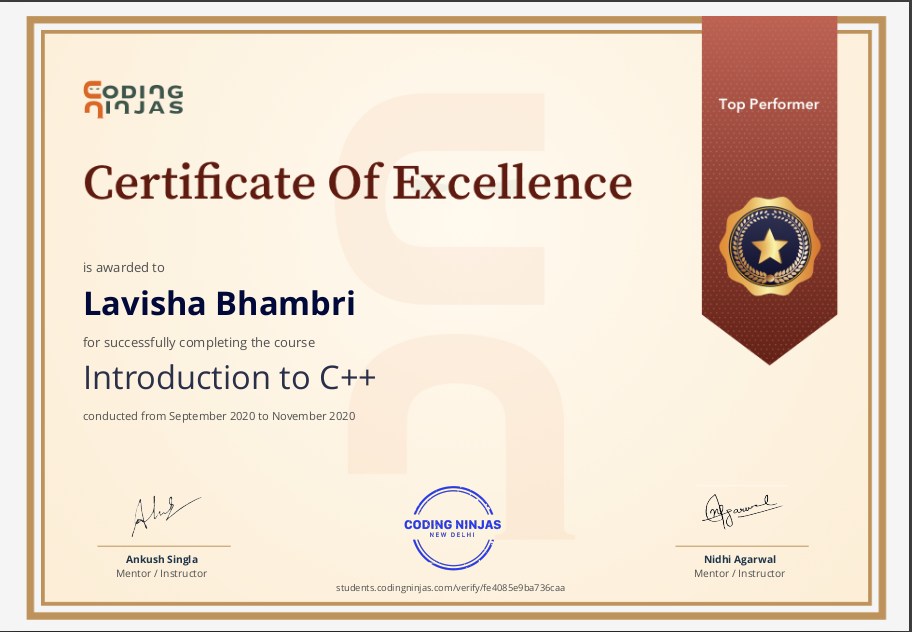
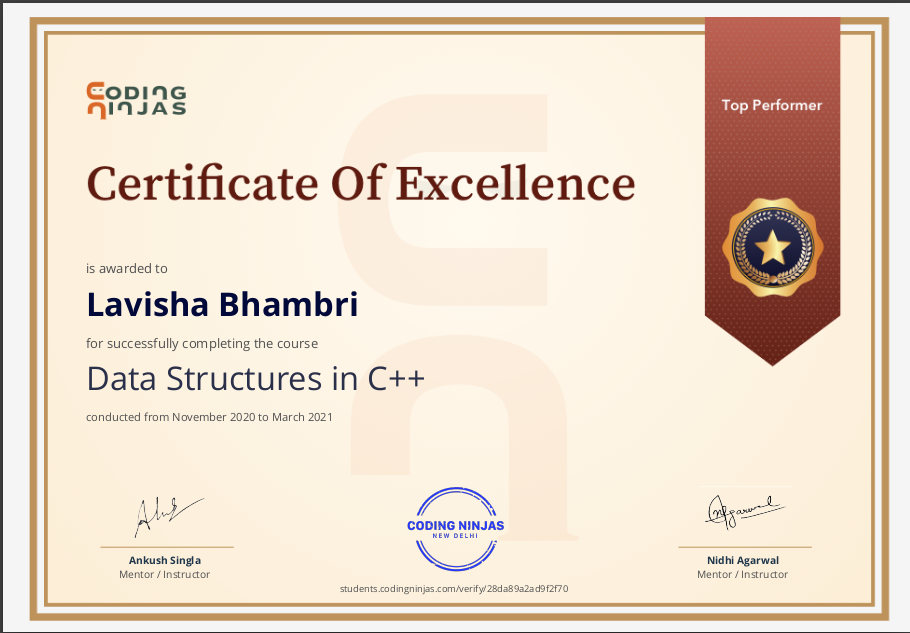
Updated certifications section

diff --git a/assets/css/projects.css b/assets/css/projects.css
@@ -182,6 +182,16 @@
     width: 95%;
     text-align: center;
   }
+
+  .certificates-box img{
+    width: 85%;
+    height: auto;
+    margin-left: 30px;
+    border-radius: 20px;
+	-webkit-box-shadow: 0 0 38px 0 rgba(0, 0, 0, 0.3);
+    -moz-box-shadow: 0 0 38px 0 rgba(0, 0, 0, 0.3);
+    box-shadow: -4px 4px 25px rgba(225, 225, 255, 0.3);
+  }
 }
 
 

diff --git a/assets/css/styles.css b/assets/css/styles.css
@@ -453,10 +453,12 @@ img{
 #certification{
   margin: auto;
   text-align: center;
+  justify-content: center;
 }
 
+
 .certificates-box{
-  width: 500px;
+  width: 450px;
 	padding: 0px 25px;
 	display: inline-block;
 	vertical-align: middle;
